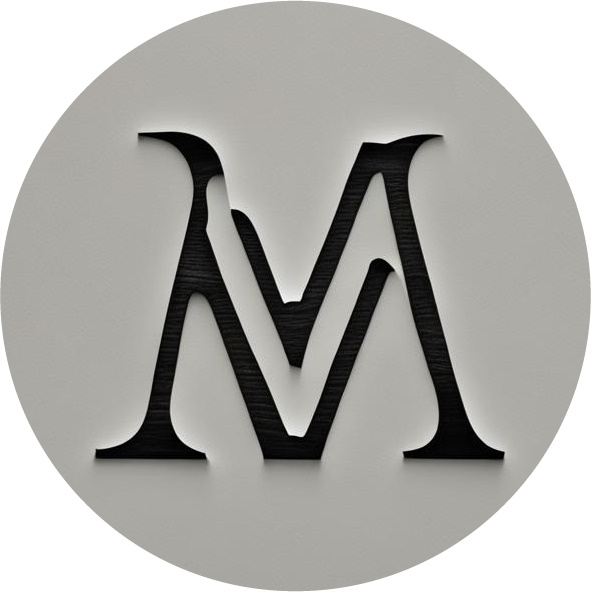
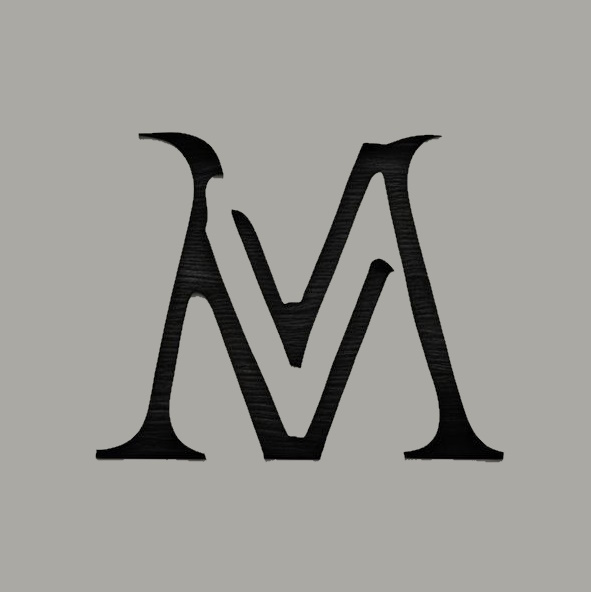
Changed ICO to square

diff --git a/Three Cards Left.html b/Three Cards Left.html
@@ -294,9 +294,106 @@
 
 <section class="text-container">
     <h3>Details</h3>
-    <p>Core Timeline campaign run by Judah Thomas Dehnert. It follows Corvan, Elwin Althorn, and Grimble Glorfin
-        and their adventures through Vertigonia and Godhome, as well as the first battles of The Radiant War.
-        It takes place in The Dark Age year 3480 through year 3520 (Vertigonia reckoning).</p>
+    <p>Core Timeline campaign run by Judah Thomas Dehnert. 
+      It follows <a class="text-link" href="Corvan.html">Corvan</a>, 
+      <a class="text-link" href="Elwin Althorn.html">Elwin Althorn</a>, and 
+      <a class="text-link" href="Grimble Glorfin.html">Grimble Glorfin</a>
+      and their adventures through 
+      <a class="text-link" href="Vertigonia.html">Vertigonia</a> and 
+      <a class="text-link" href="Godhome.html">Godhome</a>, 
+      as well as the first battles of 
+      <a class="text-link" href="The Radiant War.html">The Radiant War</a>.
+      It takes place in 
+      <a class="text-link" href="The Dark Age.html">The Dark Age</a> 
+      year 3480 through year 3520 (Vertigonia reckoning).<br><br>
+    
+      Notable locations within Three Cards Left include:<br><br>
+      
+      <a class="text-link" href="Daleth.html">Daleth</a>,
+      <a class="text-link" href="Kanta (Vertigonia).html">Kanta (Vertigonia)</a>,  
+      <a class="text-link" href="Port.html">Port</a>, 
+      <a class="text-link" href="The Hall of Souls.html">The Hall of Souls</a>, and 
+      <a class="text-link" href="Senshara.html">Senshara</a>. <br><br>
+      
+      Notable characters, groups and creatures within Three Cards Left include:<br><br>
+      
+      <a class="text-link" href="Corvan.html">Corvan</a>,
+      <a class="text-link" href="Elwin Althorn.html">Elwin Althorn</a>,
+      <a class="text-link" href=">Grimble Glorfin.html">Grimble Glorfin</a>,
+      <a class="text-link" href="Holson Proudfoot.html">Holson Proudfoot</a>,
+      <a class="text-link" href="Ort.html">Ort</a>,
+      <a class="text-link" href="Hadvar Stormcloak.html">Hadvar Stormcloak</a>,
+      <a class="text-link" href="Fikod Patterpaws.html">Fikod Patterpaws</a>,
+      <a class="text-link" href="Azathoth.html">Azathoth</a>,
+      <a class="text-link" href="Creven.html">Creven</a>,
+      <a class="text-link" href="Doll.html">Doll</a>,
+      <a class="text-link" href="Emma Althorn.html">Emma Althorn</a>,
+      <a class="text-link" href="First Dragon.html">First Dragon</a>,
+      <a class="text-link" href="Globglob.html">Globglob</a>,
+      <a class="text-link" href="Hedge.html">Hedge</a>,
+      <a class="text-link" href="Hollow.html">Hollow</a>,
+      <a class="text-link" href="Lady of the Lake.html">Lady of the Lake</a>,
+      <a class="text-link" href="Lilith.html">Lilith</a>,
+      <a class="text-link" href="Marigold.html">Marigold</a>,
+      <a class="text-link" href="Narria.html">Narria</a>, the 
+      <a class="text-link" href="Old Man.html">Old Man</a>,
+      <a class="text-link" href="The Seeker.html">The Seeker</a>,
+      <a class="text-link" href="Thea.html">Thea</a>,
+      <a class="text-link" href="Torva.html">Torva</a>,
+      <a class="text-link" href="Yelvata.html">Yelvata</a>, and
+      <a class="text-link" href="Yelvatana.html">Yelvatana</a>. <br><br>
+    
+      Notable events and artifacts within Three Cards Left include:<br><br>
+    
+      <a class="text-link" href="The Radient War.html">The Radient War</a>, 
+      <a class="text-link" href="Arodonite.html">Arodonite</a>, the 
+      <a class="text-link" href="Sword of Light.html">Sword of Light</a>, and 
+      <a class="text-link" href="Mjolnir.html">Mjolnir</a>. <br><br>
+
+      Sessions: <br><br>
+
+      1. The Journey Begins <br><br>
+
+      2. On Thin Ice<br><br>
+
+      3. The Ice Cracks<br><br>
+
+      4. A Strange Guest<br><br>
+
+      5. Daleth In Darkness I<br><br>
+
+      6. Daleth In Darkness II<br><br>
+
+      7. The Cards You Hold<br><br>
+
+      8. Carnival Arcana<br><br>
+
+      9. Harbingers of Change<br><br>
+
+      10. -<br><br>
+
+      11. -<br><br>
+
+      12. The Wrath of Gods<br><br>
+
+      13. The Wrath of the Sealed<br><br>
+
+      14. Blasphemy <br><br>
+
+      15. In Wonderment of Winter<br><br>
+
+      16. Let There Be Fire<br><br>
+
+      17. Thee Days Left<br><br>
+
+      18. The Pact of the Spider Smith I<br><br>
+
+      19. The Pact of the Spider Smith II<br><br>
+
+      20. -<br><br>
+
+      21. The Emperors of Mankind<br><br>
+    </p>
 </section>
 
 
